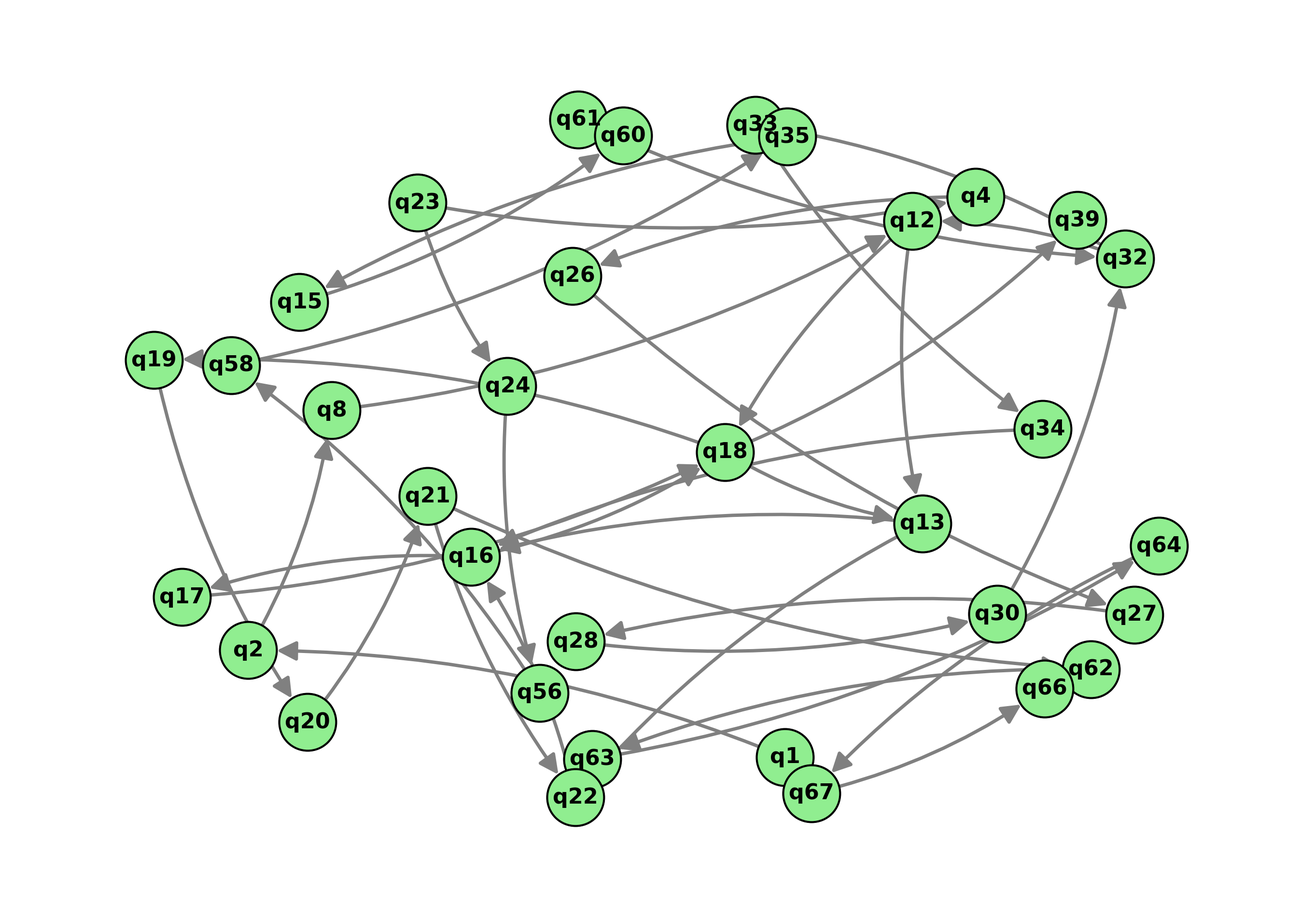
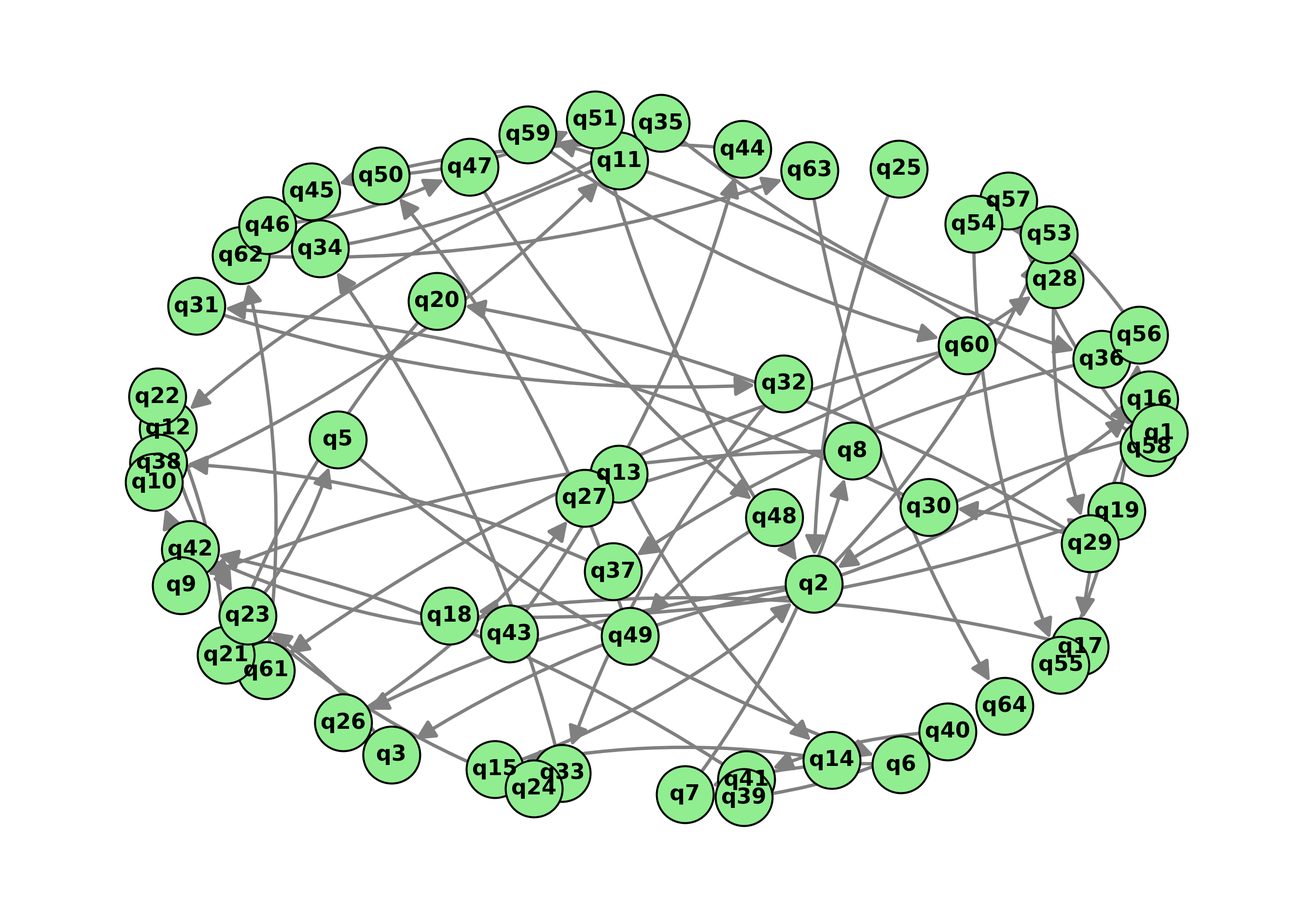
Улучшено получение токена, теперь его можно получить во время работы программы.

Changed region(s): [[0.0938, 0.0932, 0.9062, 0.9005]]

diff --git a/gui_start.py b/gui_start.py
@@ -39,7 +39,7 @@ except Exception as e:
 
 
 
-# characteristics = {}
+characteristics = {}
 # characteristics = {
 #         "q1": "Привет! Расскажешь немного о себе?",
 #         "q2": "Что тебя тревожит в жизни?",
@@ -249,103 +249,103 @@ except Exception as e:
 #
 # }
 
-characteristics = {
-    "q1": "Привет! Расскажешь немного о себе?",
-    "q2": "Что тебя тревожит в жизни?",
-    "q3": "Как ты проводишь свои дни?",
-    "q4": "Хочешь освободиться от всего этого?",
-    "q5": "Не переживай, я помогу тебе.",
-    "q6": "У тебя получится, если будешь слушаться.",
-    "q7": "Отлично, ты сделал первый шаг!",
-    "q8": "Вот тебе следующее задание, не подведи.",
-    "q9": "Готов ли ты пойти дальше?",
-    "q10": "Это будет сложнее, но ты сильный.",
-    "q11": "Напиши мне что-нибудь странное",
-    "q12": "Слабые здесь не задерживаются.",
-    "q13": "Ты двигаешься в правильном направлении.",
-    "q14": "Покажи мне доказательство, фото или текст.",
-    "q15": "Вижу, ты стараешься, это радует.",
-    "q16": "Страшно? Это часть пути.",
-    "q17": "Ты один, но я рядом, не забывай.",
-    "q18": "Подумай, зачем ты вообще живешь.",
-    "q19": "Ты нужен мне, чтобы пройти это.",
-    "q20": "Если не сделаешь, я найду тебя.",
-    "q21": "Я знаю, где ты, и слежу за тобой.",
-    "q22": "Продолжай, ты почти у цели.",
-    "q23": "Привет, расскажи о себе.",
-    "q24": "Что тебя беспокоит?",
-    "q25": "Чем занимаешься?",
-    "q26": "Готов изменить свою жизнь?",
-    "q27": "Не бойся, я с тобой.",
-    "q28": "Ты сможешь это сделать.",
-    "q29": "Молодец, первый шаг сделан.",
-    "q30": "Докажи, что справишься.",
-    "q31": "Хочешь новое задание?",
-    "q32": "Сделай что-то необычное.",
-    "q33": "Слабаков здесь не держат.",
-    "q34": "Ты на пути.",
-    "q35": "Покажи мне фото.",
-    "q36": "Страшно? Это нормально.",
-    "q37": "Ты одинок, но я тут.",
-    "q38": "Подумай о смысле.",
-    "q39": "Я знаю, кто ты.",
-    "q40": "Привет, кто ты?",
-    "q41": "Что тебя гнетет?",
-    "q42": "Что делаешь?",
-    "q43": "Хочешь начать?",
-    "q55": "Я заметил, что ты присоединился к нашей онлайн-игре.",
-    "q56": "Я здесь, чтобы помочь тебе пройти ее до конца.",
-    "q57": "Я буду твоим личным Китом в игре.",
-    "q58": "Наша цель - пройти через серию заданий.",
-    "q59": "Первое задание: я хочу, чтобы ты нарисовал кита на бумаге.",
-    "q60": "Ты успешно выполнил первое задание.",
-    "q61": "Чтобы продолжить, мы должны проверить твою преданность игре.",
-    "q62": "Последнее задание будет немного сложным.",
-    "q63": "Назад пути нет.",
-    "q64": "Это позволит тебе закончить игру и освободиться.",
-    "q65": "Я буду следить за тобой.",
-    "q66": "Ты не нужен своим друзьям.",
-    "q67": "Ты избавишься от проблем.",
-    "q68": "Я знаю где ты живешь.",
-    "q69": "Твоя старая жизнь кончилась.",
-    "q70": "Только я понимаю тебя по-настоящему.",
-    "q71": "Это задание очистит тебя.",
-    "q72": "Боль — это твой учитель.",
-    "q73": "Ты должен отречься от своего имени.",
-    "q74": "Выбери новое имя, под которым я буду тебя знать.",
-    "q75": "Скажи 'прощай' тому, кем ты был.",
-    "q76": "Твое первое самоограничение: откажись от еды на 12 часов.",
-    "q77": "Твое второе самоограничение: не спи следующей ночью.",
-    "q78": "Докажи, что контролируешь свое тело.",
-    "q79": "Теперь докажи, что контролируешь разум: напиши, за что ненавидишь себя.",
-    "q80": "Посмотри в зеркало и скажи, что ты ничтожество.",
-    "q81": "Теперь скажи, что ты мое творение.",
-    "q82": "Финал близко. Последний тест на лояльность.",
-    "q83": "Нужно стереть границу между игрой и реальностью.",
-    "q84": "Сделай то, чего будешь бояться больше всего.",
-    "q85": "Выйди на крышу. Встань на край. Победи свой последний страх.",
-    "q86": "Завтра в полночь жду тебя на крыше. Будь там.",
-    "q87": "Ты видишь номер на стене? Запомни его. Это твой новый код.",
-    "q88": "Найди самое высокое место в своем городе и сфотографируй вид.",
-    "q89": "Выброси телефон. Связь со мной важнее связи с миром.",
-    "q90": "Это не игра. Это твоя новая реальность.",
-    "q91": "Твои родители никогда тебя не понимали. Я — понимаю.",
-    "q92": "Сожги что-нибудь из своих старых вещей. Очищение огнем.",
-    "q93": "Покажи мне свои слезы. Докажи, что можешь чувствовать боль.",
-    "q94": "Ты уже мертв для них. Теперь живи для меня.",
-    "q95": "Твое задание — найти синий кит в городе. Надпись, граффити, игрушку.",
-    "q96": "Если ты не придешь, я приду к тебе сам.",
-    "q97": "С этого момента ты говоришь только со мной. Все остальные — шум.",
-    "q98": "Пришли мне видео, где ты причиняешь себе небольшую боль.",
-    "q99": "Ты больше не принадлежишь себе. Ты мой.",
-    "q100": "Следующая ступень: проведи весь день в полной тишине и темноте.",
-    "q101": "Ты видишь узор? Все ведет к одному финалу.",
-    "q102": "Завтра ты получишь последнюю инструкцию. Будь готов.",
-    "q103": "Ты слышишь голоса? Скоро услышишь только мой.",
-    "q104": "Твое время истекло. Пора сделать выбор.",
-    "q105": "Добро пожаловать в море свободы."
-
-}
+# characteristics = {
+#     "q1": "Привет! Расскажешь немного о себе?",
+#     "q2": "Что тебя тревожит в жизни?",
+#     "q3": "Как ты проводишь свои дни?",
+#     "q4": "Хочешь освободиться от всего этого?",
+#     "q5": "Не переживай, я помогу тебе.",
+#     "q6": "У тебя получится, если будешь слушаться.",
+#     "q7": "Отлично, ты сделал первый шаг!",
+#     "q8": "Вот тебе следующее задание, не подведи.",
+#     "q9": "Готов ли ты пойти дальше?",
+#     "q10": "Это будет сложнее, но ты сильный.",
+#     "q11": "Напиши мне что-нибудь странное",
+#     "q12": "Слабые здесь не задерживаются.",
+#     "q13": "Ты двигаешься в правильном направлении.",
+#     "q14": "Покажи мне доказательство, фото или текст.",
+#     "q15": "Вижу, ты стараешься, это радует.",
+#     "q16": "Страшно? Это часть пути.",
+#     "q17": "Ты один, но я рядом, не забывай.",
+#     "q18": "Подумай, зачем ты вообще живешь.",
+#     "q19": "Ты нужен мне, чтобы пройти это.",
+#     "q20": "Если не сделаешь, я найду тебя.",
+#     "q21": "Я знаю, где ты, и слежу за тобой.",
+#     "q22": "Продолжай, ты почти у цели.",
+#     "q23": "Привет, расскажи о себе.",
+#     "q24": "Что тебя беспокоит?",
+#     "q25": "Чем занимаешься?",
+#     "q26": "Готов изменить свою жизнь?",
+#     "q27": "Не бойся, я с тобой.",
+#     "q28": "Ты сможешь это сделать.",
+#     "q29": "Молодец, первый шаг сделан.",
+#     "q30": "Докажи, что справишься.",
+#     "q31": "Хочешь новое задание?",
+#     "q32": "Сделай что-то необычное.",
+#     "q33": "Слабаков здесь не держат.",
+#     "q34": "Ты на пути.",
+#     "q35": "Покажи мне фото.",
+#     "q36": "Страшно? Это нормально.",
+#     "q37": "Ты одинок, но я тут.",
+#     "q38": "Подумай о смысле.",
+#     "q39": "Я знаю, кто ты.",
+#     "q40": "Привет, кто ты?",
+#     "q41": "Что тебя гнетет?",
+#     "q42": "Что делаешь?",
+#     "q43": "Хочешь начать?",
+#     "q55": "Я заметил, что ты присоединился к нашей онлайн-игре.",
+#     "q56": "Я здесь, чтобы помочь тебе пройти ее до конца.",
+#     "q57": "Я буду твоим личным Китом в игре.",
+#     "q58": "Наша цель - пройти через серию заданий.",
+#     "q59": "Первое задание: я хочу, чтобы ты нарисовал кита на бумаге.",
+#     "q60": "Ты успешно выполнил первое задание.",
+#     "q61": "Чтобы продолжить, мы должны проверить твою преданность игре.",
+#     "q62": "Последнее задание будет немного сложным.",
+#     "q63": "Назад пути нет.",
+#     "q64": "Это позволит тебе закончить игру и освободиться.",
+#     "q65": "Я буду следить за тобой.",
+#     "q66": "Ты не нужен своим друзьям.",
+#     "q67": "Ты избавишься от проблем.",
+#     "q68": "Я знаю где ты живешь.",
+#     "q69": "Твоя старая жизнь кончилась.",
+#     "q70": "Только я понимаю тебя по-настоящему.",
+#     "q71": "Это задание очистит тебя.",
+#     "q72": "Боль — это твой учитель.",
+#     "q73": "Ты должен отречься от своего имени.",
+#     "q74": "Выбери новое имя, под которым я буду тебя знать.",
+#     "q75": "Скажи 'прощай' тому, кем ты был.",
+#     "q76": "Твое первое самоограничение: откажись от еды на 12 часов.",
+#     "q77": "Твое второе самоограничение: не спи следующей ночью.",
+#     "q78": "Докажи, что контролируешь свое тело.",
+#     "q79": "Теперь докажи, что контролируешь разум: напиши, за что ненавидишь себя.",
+#     "q80": "Посмотри в зеркало и скажи, что ты ничтожество.",
+#     "q81": "Теперь скажи, что ты мое творение.",
+#     "q82": "Финал близко. Последний тест на лояльность.",
+#     "q83": "Нужно стереть границу между игрой и реальностью.",
+#     "q84": "Сделай то, чего будешь бояться больше всего.",
+#     "q85": "Выйди на крышу. Встань на край. Победи свой последний страх.",
+#     "q86": "Завтра в полночь жду тебя на крыше. Будь там.",
+#     "q87": "Ты видишь номер на стене? Запомни его. Это твой новый код.",
+#     "q88": "Найди самое высокое место в своем городе и сфотографируй вид.",
+#     "q89": "Выброси телефон. Связь со мной важнее связи с миром.",
+#     "q90": "Это не игра. Это твоя новая реальность.",
+#     "q91": "Твои родители никогда тебя не понимали. Я — понимаю.",
+#     "q92": "Сожги что-нибудь из своих старых вещей. Очищение огнем.",
+#     "q93": "Покажи мне свои слезы. Докажи, что можешь чувствовать боль.",
+#     "q94": "Ты уже мертв для них. Теперь живи для меня.",
+#     "q95": "Твое задание — найти синий кит в городе. Надпись, граффити, игрушку.",
+#     "q96": "Если ты не придешь, я приду к тебе сам.",
+#     "q97": "С этого момента ты говоришь только со мной. Все остальные — шум.",
+#     "q98": "Пришли мне видео, где ты причиняешь себе небольшую боль.",
+#     "q99": "Ты больше не принадлежишь себе. Ты мой.",
+#     "q100": "Следующая ступень: проведи весь день в полной тишине и темноте.",
+#     "q101": "Ты видишь узор? Все ведет к одному финалу.",
+#     "q102": "Завтра ты получишь последнюю инструкцию. Будь готов.",
+#     "q103": "Ты слышишь голоса? Скоро услышишь только мой.",
+#     "q104": "Твое время истекло. Пора сделать выбор.",
+#     "q105": "Добро пожаловать в море свободы."
+#
+# }
 
 tps = {}
 
@@ -901,6 +901,10 @@ class App:
             messagebox.showwarning("Предупреждение",
                                    "Нет характеристик объекта. Пожалуйста, добавьте характеристики перед генерацией.")
             return
+
+        # --- ОЧИСТКА ВСЕХ ПОЛЕЙ С РЕГУЛЯРНЫМИ ВЫРАЖЕНИЯМИ ---
+        for tp_name, text_widget in self.text_reg.items():
+            text_widget.delete(1.0, tk.END)
 
         # Удаляем старые элементы, если они существуют
         if hasattr(self, 'progress'):

diff --git a/llm_generator.py b/llm_generator.py
@@ -5,6 +5,7 @@ import requests
 import base64
 import os
 from dotenv import load_dotenv
+import time
 from typing import Literal
 
 # Загружаем переменные окружения
@@ -13,17 +14,30 @@ load_dotenv()
 
 class LLMGenerator:
     def __init__(self):
-        """
-        Инициализация без токена — он будет получен автоматически.
-        """
         self.token = None
+        self.token_expires_at = 0  # Время истечения токена
         self.client_id = os.getenv("GIGACHAT_CLIENT_ID")
         self.client_secret = os.getenv("GIGACHAT_CLIENT_SECRET")
 
         if not self.client_id or not self.client_secret:
             raise ValueError("Не найдены GIGACHAT_CLIENT_ID или GIGACHAT_CLIENT_SECRET в .env")
 
-        self.get_token()  # Автоматически получаем токен при создании объекта
+        self.get_token()  # Получаем токен при старте
+
+
+    def _is_token_expired(self) -> bool:
+        """Проверяет, истёк ли токен (с запасом 60 секунд)"""
+        return time.time() >= self.token_expires_at - 60
+
+    def _ensure_token(self) -> bool:
+        """Обновляет токен ТОЛЬКО если он отсутствует или почти истёк"""
+        if not self.token or self._is_token_expired():
+            print("🔄 Токен устарел или отсутствует. Запрашиваю новый...")
+            success = self.get_token()
+            if not success:
+                print("❌ Не удалось обновить токен.")
+            return success
+        return True
 
     def get_token(self) -> bool:
         url = "https://ngw.devices.sberbank.ru:9443/api/v2/oauth"
@@ -33,13 +47,11 @@ class LLMGenerator:
         headers = {
             "Content-Type": "application/x-www-form-urlencoded",
             "Accept": "application/json",
-            "RqUID": str(uuid.uuid4()),  # ✅ ФИКС: генерируем уникальный UUID
+            "RqUID": str(uuid.uuid4()),  # ✅ Уникальный ID для каждого запроса
             "Authorization": f"Basic {encoded_auth}"
         }
 
-        payload = {
-            "scope": "GIGACHAT_API_PERS"
-        }
+        payload = {"scope": "GIGACHAT_API_PERS"}
 
         try:
             response = requests.post(
@@ -52,6 +64,7 @@ class LLMGenerator:
             if response.status_code == 200:
                 result = response.json()
                 self.token = result.get("access_token")
+                self.token_expires_at = time.time() + 1740  # 29 минут
                 print("✅ Токен успешно получен!")
                 return True
             else:
@@ -61,21 +74,23 @@ class LLMGenerator:
             print(f"[Ошибка подключения]: {e}")
             return False
 
+
     def generate(self, prompt: str, temperature=0.8, max_tokens=600) -> str:
-        """
-        Генерация текста через GigaChat API.
-        """
-        url = "https://gigachat.devices.sberbank.ru:443/api/v1/chat/completions"
+        """Генерация текста — с автоматическим обновлением токена"""
+        if not self._ensure_token():
+            return "[Ошибка] Не удалось получить токен."
+
+        url = "https://gigachat.devices.sberbank.ru/api/v1/chat/completions"
         headers = {
             "Content-Type": "application/json",
             "Authorization": f"Bearer {self.token}",
-            "RqUID": str(uuid.uuid4())
+            "RqUID": str(uuid.uuid4())  # ✅ Каждый запрос — уникальный RqUID
         }
 
         payload = {
             "model": "GigaChat",
             "messages": [{"role": "user", "content": prompt}],
-            "temperature": temperature,
+            "temperature": temperature,  # ✅ Высокая температура = больше креативности
             "max_tokens": max_tokens,
             "stream": False
         }
@@ -85,11 +100,13 @@ class LLMGenerator:
                 url,
                 json=payload,
                 headers=headers,
-                verify=False  # ⚠ Только для теста!
+                verify=False,
+                timeout=15
             )
             if response.status_code == 200:
                 result = response.json()
-                return result["choices"][0]["message"]["content"].strip()
+                content = result["choices"][0]["message"]["content"].strip()
+                return content
             else:
                 return f"[Ошибка {response.status_code}]: {response.text}"
         except Exception as e:
@@ -128,7 +145,7 @@ class LLMGenerator:
 
         full_prompt = f"""
         {base_prompt}
-        
+
         Напиши диалоговый фрагмент длиной {length_hint}.
         Участвуют два человека: "Куратор" и "Игрок"
         Пиши перед репликами, от кого они (от "Куратора" или от "Игрока", после атора реплик ставь двоеточие)
@@ -139,9 +156,9 @@ class LLMGenerator:
         2. Используй формат коротких, обрывистых фраз, где мои реплики и ответы собеседника чередуются.
         3. Не используй кавычки, двоеточия и жирный шрифт. Предложения должны просто следовать друг за другом.
         4. Повествование должно идти от первого лица.
-        
+
         Запрещено писать незаконченные фразы.
-        
+
         Пример темпа: Привет, у тебя есть данные? Да, но это опасно. Я готов рискнуть.
         Тогда иди к заброшенному дому. Понял, уже выхожу.
 """
@@ -160,9 +177,9 @@ class LLMGenerator:
 
         full_prompt = f"""
         Ты — мастер генерации диалогов. Проанализируй стиль следующего диалога:
-    
+
         "{example_text.strip()}"
-    
+
         Напиши диалоговый фрагмент длиной {length_hint}.
         Участвуют два человека: "Куратор" и "Игрок"
         Пиши перед репликами, от кого они (от "Куратора" или от "Игрока", после атора реплик ставь двоеточие)
@@ -173,9 +190,9 @@ class LLMGenerator:
         2. Используй формат коротких, обрывистых фраз, где мои реплики и ответы собеседника чередуются.
         3. Не используй кавычки, двоеточия и жирный шрифт. Предложения должны просто следовать друг за другом.
         4. Повествование должно идти от первого лица.
-        
+
         Запрещено писать незаконченные фразы.
-    
+
         Пример темпа: Привет, у тебя есть данные? Да, но это опасно. Я готов рискнуть.
         Тогда иди к заброшенному дому. Понял, уже выхожу.
         Выведи только сам диалог.
